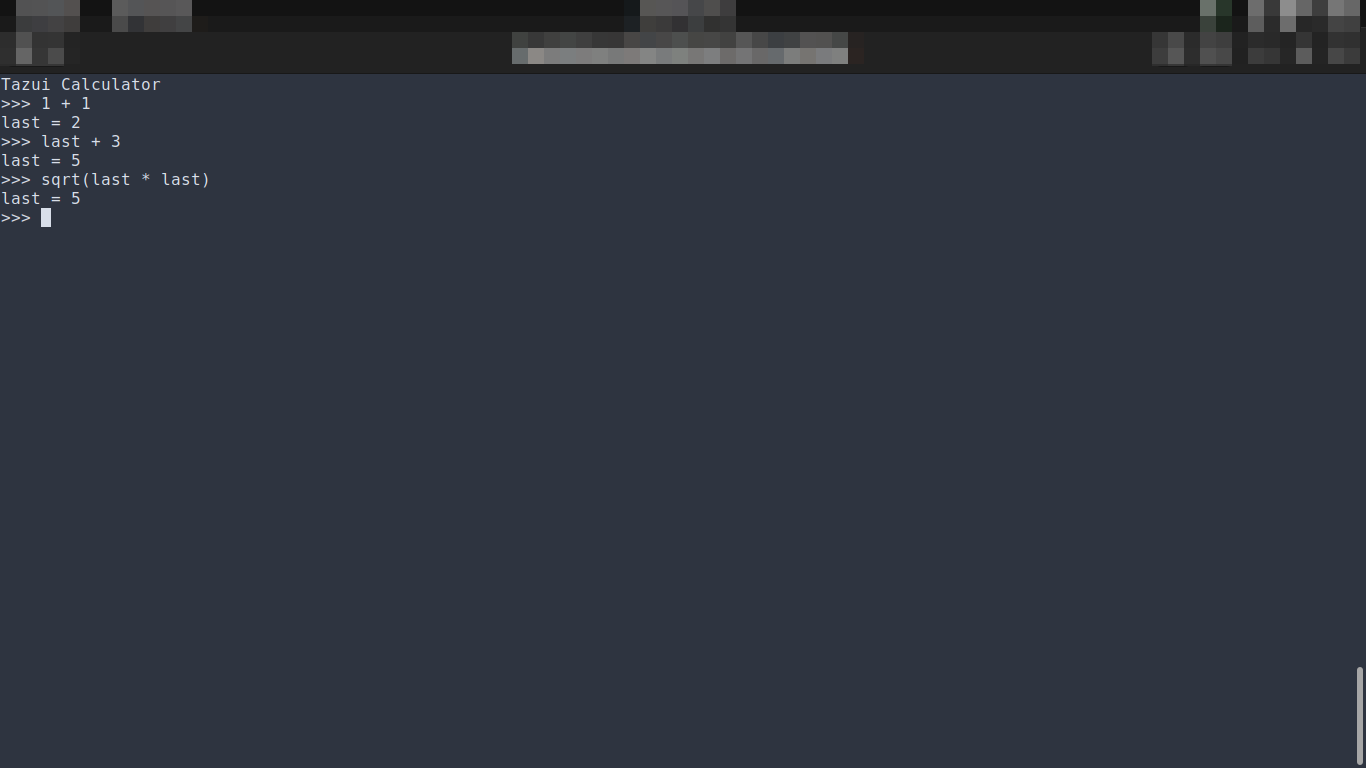
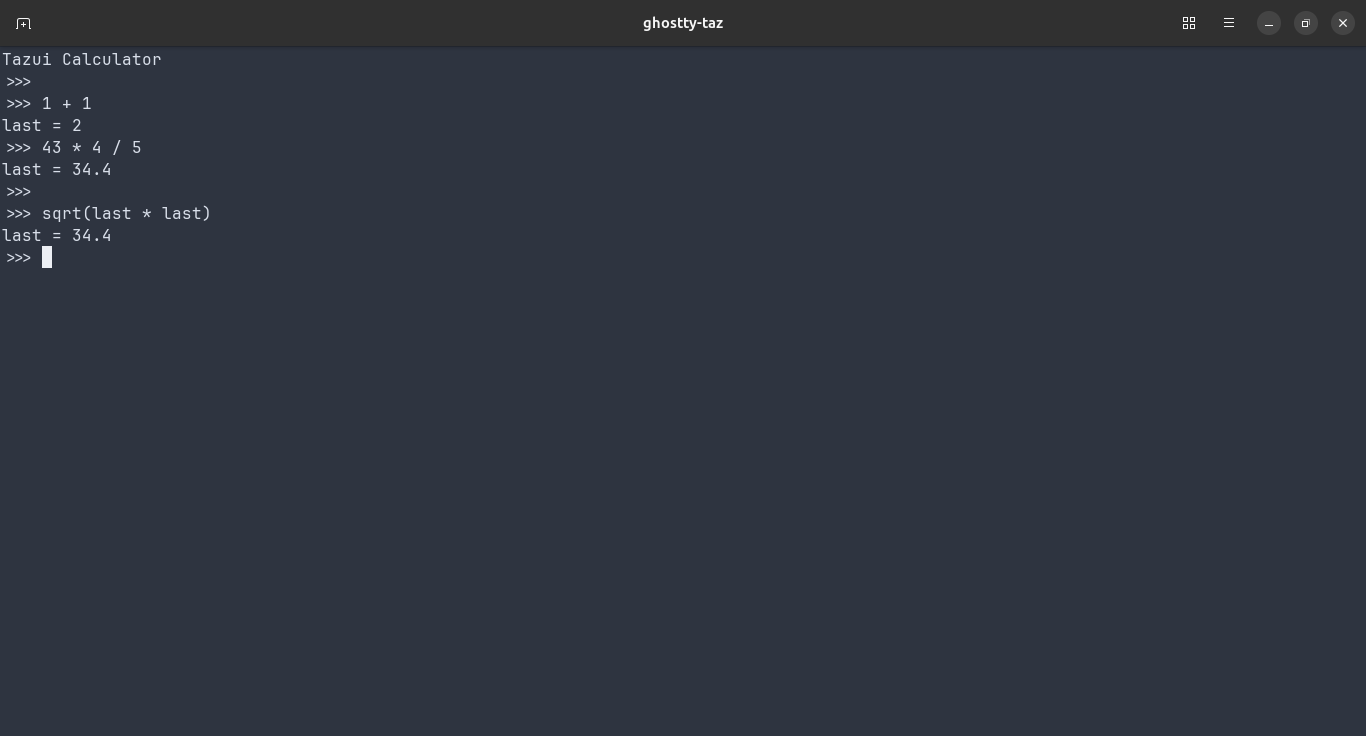
Use tazor as calculator (#4)
* Extract calculator features in independant library

* Update README with new feature

Changed region(s): [[0.0, 0.0, 1.0, 0.375], [0.9839, 0.875, 1.0, 1.0], [0.123, 0.2812, 0.1537, 0.3125]]

diff --git a/src/application.rs b/src/application.rs
@@ -1,24 +1,24 @@
-use super::calculator::Calculator;
 use super::tui::Tui;
 
 use std::io::Error;
 
 /// Tazui calculator application
-pub struct Application<TuiApp>
+pub struct Application<TuiApp, Evaluator>
 where
-    TuiApp: Tui + Default,
+    TuiApp: Tui,
+    Evaluator: Fn(&str) -> Result<f64, String>,
 {
-    tui: TuiApp,            // terminal user interface to interact with user
-    calculator: Calculator, // calculator to process expressions given by user
-    history: Vec<String>,   // store previous expressions enter by user
+    tui: TuiApp,                              // terminal user interface to interact with user
+    calculator: tazor::Calculator<Evaluator>, // calculator to process expressions given by user
+    history: Vec<String>,                     // store previous expressions enter by user
 }
 
-impl<TuiApp: Tui + Default> Application<TuiApp> {
+impl<TuiApp: Tui, Evaluator: Fn(&str) -> Result<f64, String>> Application<TuiApp, Evaluator> {
     /// Create a application
-    pub fn new() -> Self {
+    pub fn new(tui_app: TuiApp, evaluator: Evaluator) -> Self {
         return Application {
-            tui: TuiApp::default(),
-            calculator: Calculator::new(),
+            tui: tui_app,
+            calculator: tazor::Calculator::new(evaluator),
             history: Vec::with_capacity(5),
         };
     }
@@ -52,10 +52,9 @@ impl<TuiApp: Tui + Default> Application<TuiApp> {
 
             // Process and display the result of expression
             match self.calculator.process(&expression) {
-                Ok((name, value)) => {
+                Ok(evaluated_expression) => {
                     self.history.push(expression);
-                    self.tui
-                        .display_text_with_new_line(&format!("{} = {}", name, value))?;
+                    self.tui.display_text_with_new_line(&evaluated_expression)?;
                 }
                 Err(message) => {
                     self.tui.display_text_with_new_line(&message)?;

diff --git a/src/main.rs b/src/main.rs
@@ -1,5 +1,4 @@
 mod application;
-mod calculator;
 mod crossterm_tui;
 mod tui;
 
@@ -7,7 +6,7 @@ use application::Application;
 use crossterm_tui::CrosstermTui;
 
 fn main() {
-    let mut app: Application<CrosstermTui> = Application::<CrosstermTui>::new();
+    let mut app = Application::new(CrosstermTui::default(), taz::evaluate);
 
     if let Err(error) = app.init() {
         println!("{}\n", error);

diff --git a/README.md b/README.md
@@ -36,6 +36,6 @@ Moreover, we can define variable with an expression. Tazui evaluate it and put r
 
 ![](doc/tazui-use-variables.png)
 
-We can also define reusable expression. Tazui evaluate it and put it name and current result in variables. Then we can modify variables and the expression is updated automaticaly.
+We can also define reusable function. Tazui parse it and store its representation. Then we can call this function in expression, variable or other function.
 
-![](doc/tazui-use-expressions.png)
+![](doc/tazui-use-functions.png)
